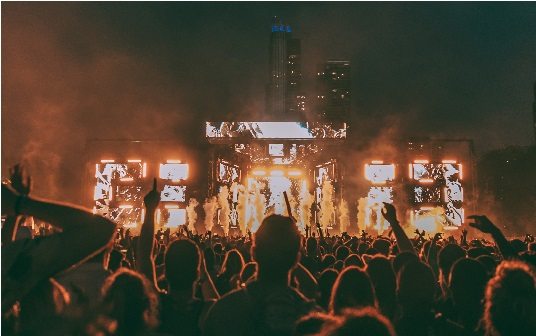
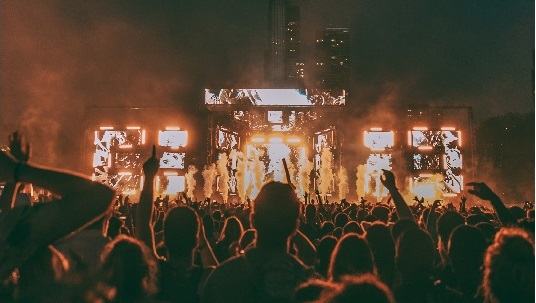
updated image slider

diff --git a/src/components/image.slider.js b/src/components/image.slider.js
@@ -1,51 +1,52 @@
-import React, { Component } from "react";
+import React from "react";
 import Slider from "react-slick";
 import augventsLogo from "../event.jpeg"
+import liveMusic from "../Live-Music.jpg"
 import './styles/image.slider.scss'
 
-export default class ImageSlider extends Component {
-  render() {
-    const settings = {
-      infinite: true,
-      speed: 3500,
-      autoplaySpeed: 1000,
-      slidesToShow: 3,
-      autoplay: true,
-      slidesToScroll: 1,
-      arrows: false,
-    };
-    return (
-      <div className="image-slider" >
-        <Slider {...settings}>
-          <div>
+const ImageSlider = (props) => {
+  const settings = {
+    infinite: true,
+    speed: 3500,
+    autoplaySpeed: 1000,
+    slidesToShow: 3,
+    autoplay: true,
+    slidesToScroll: 1,
+    arrows: false,
+  };
+  return (
+    <div className="image-slider" >
+      <Slider {...settings}>
+        <div>
           <img src={augventsLogo}></img>
-          </div>
-          <div>
+        </div>
+        <div>
+          <img src={liveMusic}></img>
+        </div>
+        <div>
           <img src={augventsLogo}></img>
-          </div>
-          <div>
+        </div>
+        <div>
+          <img src={liveMusic}></img>
+        </div>
+        <div>
           <img src={augventsLogo}></img>
-          </div>
-          <div>
+        </div>
+        <div>
+          <img src={liveMusic}></img>
+        </div>
+        <div>
           <img src={augventsLogo}></img>
-          </div>
-          <div>
+        </div>
+        <div>
+          <img src={liveMusic}></img>
+        </div>
+        <div>
           <img src={augventsLogo}></img>
-          </div>
-          <div>
-          <img src={augventsLogo}></img>
-          </div>
-          <div>
-          <img src={augventsLogo}></img>
-          </div>
-          <div>
-          <img src={augventsLogo}></img>
-          </div>
-          <div>
-          <img src={augventsLogo}></img>
-          </div>
-        </Slider>
-      </div>
-    );
-  }
+        </div>
+      </Slider>
+    </div>
+  );
 }
+
+export default ImageSlider

diff --git a/src/components/styles/image.slider.scss b/src/components/styles/image.slider.scss
@@ -1,8 +1,9 @@
 .image-slider{
     img {
-        padding: 10px;
-        margin: 10px;
+        padding: 3px 3px 0px;
+        margin: 3px 3px 0px;
+        width: 100%;
         max-width: 520px;
-        max-height: 320px;
+        max-height: 260px;
     }
 }

diff --git a/src/components/styles/homepage.scss b/src/components/styles/homepage.scss
@@ -1,4 +1,3 @@
-
 .myVideo {
   position: fixed;
   min-width: 100%;
